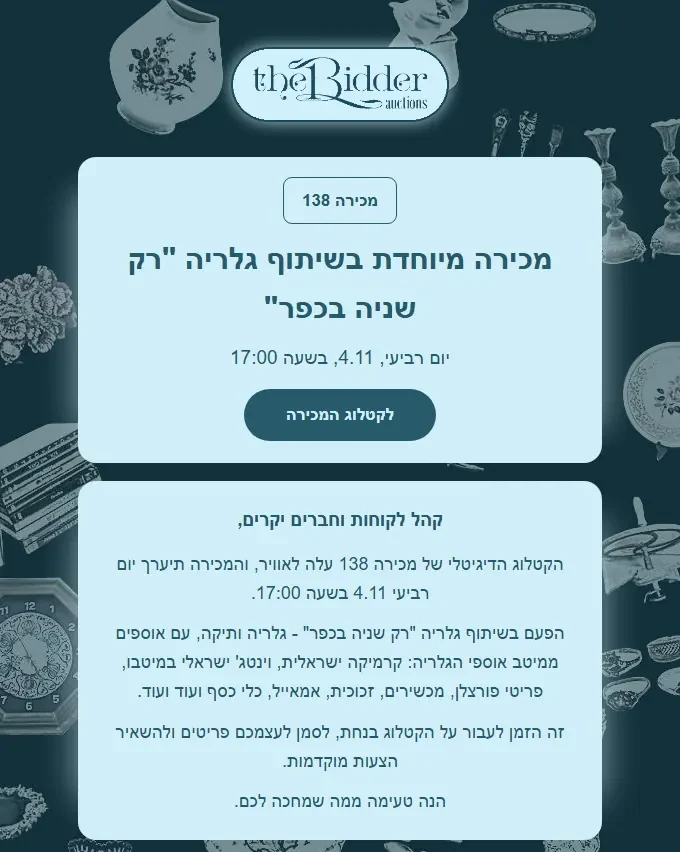
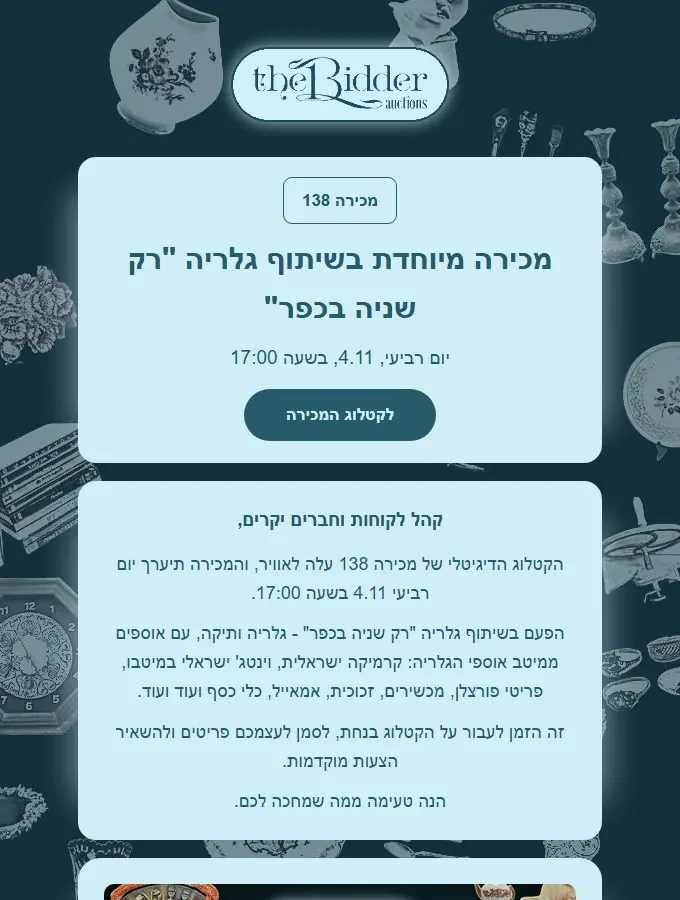
Who is talking: film-trained; the three mails open at one length

diff --git a/index.html b/index.html
@@ -638,6 +638,8 @@ html:has(.cam[open]) { overflow: hidden; }
 
 
 /* the Flytrex film plays in the page, on a click; the link to YouTube stays under it */
+/* an opening frame of a longer mail or page fades out where it is cut; a click opens the whole */
+.paste__btn[data-tall] img { -webkit-mask-image: linear-gradient(to bottom, #000 82%, transparent); mask-image: linear-gradient(to bottom, #000 82%, transparent); }
 .film { margin-top: 1rem; max-width: 40rem; }
 .film__frame { position: relative; aspect-ratio: 16 / 9; background: #0b0b0b; overflow: hidden; }
 .film__frame iframe { position: absolute; inset: 0; width: 100%; height: 100%; border: 0; }
@@ -1104,9 +1106,9 @@ a.film__play { text-decoration: none; }
       <p class="prose">The house&rsquo;s mail for its end-of-year sale in December 2024, before my time. Then mine: the May 2026 sale on Bidspirit, and the first mail of sale 138 in November, built by BINA. Each opens whole on a click.</p>
     </div>
     <div class="row row--3" style="max-width:56rem">
-      <figure class="paste"><button class="paste__btn" type="button" data-zoom data-full="assets/mail-2024.webp" data-tall><img src="assets/mail-2024-top.webp" width="680" height="1060" alt="The opening of the house&rsquo;s mail for its end-of-year sale, December 2024: the logo, a grid of eight lot photographs, and centred lines of Hebrew" loading="lazy"></button><figcaption class="cap">December 2024, the house&rsquo;s mail before mine</figcaption></figure>
-      <figure class="paste"><button class="paste__btn" type="button" data-zoom data-full="assets/mail-old.webp" data-tall><img src="assets/mail-old-top.webp" width="680" height="1030" alt="The opening of my mail for the May 2026 sale on Bidspirit: centred lines of Hebrew in blue boxes" loading="lazy"></button><figcaption class="cap">May 2026, the sale on Bidspirit</figcaption></figure>
-      <figure class="paste"><button class="paste__btn" type="button" data-zoom data-full="assets/mail-138-m1.webp" data-tall><img src="assets/mail-138-m1-top.webp" width="680" height="852" alt="The opening of sale 138, mail 1: the house seal over the sale&rsquo;s date and a greeting, on a ground of the sale&rsquo;s objects" loading="lazy"></button><figcaption class="cap">November 2026, sale 138, mail 1</figcaption></figure>
+      <figure class="paste"><button class="paste__btn" type="button" data-zoom data-full="assets/mail-2024.webp" data-tall><img src="assets/mail-2024-top.webp" width="680" height="900" alt="The opening of the house&rsquo;s mail for its end-of-year sale, December 2024: the logo, a grid of eight lot photographs, and centred lines of Hebrew" loading="lazy"></button><figcaption class="cap">December 2024, the house&rsquo;s mail before mine</figcaption></figure>
+      <figure class="paste"><button class="paste__btn" type="button" data-zoom data-full="assets/mail-old.webp" data-tall><img src="assets/mail-old-top.webp" width="680" height="900" alt="The opening of my mail for the May 2026 sale on Bidspirit: centred lines of Hebrew in blue boxes" loading="lazy"></button><figcaption class="cap">May 2026, the sale on Bidspirit</figcaption></figure>
+      <figure class="paste"><button class="paste__btn" type="button" data-zoom data-full="assets/mail-138-m1.webp" data-tall><img src="assets/mail-138-m1-top.webp" width="680" height="900" alt="The opening of sale 138, mail 1: the house seal over the sale&rsquo;s date and a greeting, on a ground of the sale&rsquo;s objects" loading="lazy"></button><figcaption class="cap">November 2026, sale 138, mail 1</figcaption></figure>
     </div>
     <div class="turn">
       <h3 class="display">The posters</h3>
@@ -1157,6 +1159,7 @@ a.film__play { text-decoration: none; }
       <figure class="paste" style="max-width:22rem"><div class="paste__still"><img src="assets/portrait.webp" width="652" height="815" alt="Asaf Calderon, outdoors in autumn" loading="lazy"></div></figure>
       <div class="prose">
         <p>I am a strategist, writer and deck builder, trained as a storyteller. Since 2008 I have shaped positioning, copy and pitch decks for businesses launching or growing in their market. Since 2024 I also build AI products.</p>
+        <p>I am film-trained: my eye is one with the film camera. I bring both sides: art and marketing, mass media and the curated niche, creative and business.</p>
         <p>Clients get a storyteller’s structure, a translator’s precision and a producer’s delivery: a clear story, tested, ready to present.</p>
         <p>I am from Tel Aviv, Israel, and I live in Prague. I work in Hebrew and in English, with clients anywhere.</p>
         <p class="quiet">The precision is earned. In 2024 I produced about 20,000&nbsp;words of human Hebrew-to-English reference translations for the ground-truth set Google uses to evaluate its translation models.</p>
@@ -1244,7 +1247,7 @@ a.film__play { text-decoration: none; }
     next:    { client: 'You',               job: 'Your deck or brand',               year: '',           round: '',            status: 'Write to me' }
   };
   // Measured from each sheet's image files by tools/build_press.py.
-  var INKS = {"top":["#093927","#ffffff","#77877f","#4d655b","#a9b5af"],"bonfix":["#f6f5ee","#113a2c","#cde2d2","#95a499"],"rounds":["#f6f5ee","#091611","#809a9a","#d59f86","#d0b9b0","#315051","#806d60"],"mint":["#241f19","#ab792c","#765220","#dc9c34","#513816","#55dc8e","#f3c971"],"logo":["#f7f6f0","#093927","#70bed1","#2295af","#55919c","#d4ddd7"],"bina":["#f4eddd","#492826","#6f91ad","#7d57c2","#ad4d42","#a98951","#5ee997"],"method":["#f6f5ee","#121f16","#d2d2ca","#324853","#737a75","#afb4ae"],"clinic":["#ffffff","#876e6e","#bdddeb","#5a4b55","#82a1b2","#b35e42","#cf9b89"],"caption":["#f1f0ec","#0b201e","#0db8aa","#cb5a3e","#86cdc5"],"bidder":["#0d2329","#ffffff","#cff0fc","#42221c","#225463","#746654","#8cb5be"],"mailers":["#d0eef9","#ffffff","#12313b","#285a6a","#706658","#80908e","#af9a7d"],"writer":["#c5ccd4","#a7abb1","#83868a"]};
+  var INKS = {"top":["#093927","#ffffff","#77877f","#4d655b","#a9b5af"],"bonfix":["#f6f5ee","#113a2c","#cde2d2","#95a499"],"rounds":["#f6f5ee","#091611","#809a9a","#d59f86","#d0b9b0","#315051","#806d60"],"mint":["#241f19","#ab792c","#765220","#dc9c34","#513816","#55dc8e","#f3c971"],"logo":["#f7f6f0","#093927","#70bed1","#2295af","#55919c","#d4ddd7"],"bina":["#f4eddd","#492826","#6f91ad","#7d57c2","#ad4d42","#a98951","#5ee997"],"method":["#f6f5ee","#121f16","#d2d2ca","#324853","#737a75","#afb4ae"],"clinic":["#ffffff","#876e6e","#bdddeb","#5a4b55","#82a1b2","#b35e42","#cf9b89"],"caption":["#f1f0ec","#0b201e","#0db8aa","#cb5a3e","#86cdc5"],"bidder":["#0d2329","#ffffff","#cff0fc","#42221c","#225463","#746654","#8cb5be"],"mailers":["#d0eef9","#ffffff","#12313b","#285a6a","#8d6b52","#4d332a","#a99477"],"writer":["#c5ccd4","#a7abb1","#83868a"]};
   // The press's own bar: the four process colours, their three overprints, and tints.
   var PROCESS = ['#00a0e3', '#e5007d', '#ffe500', '#141414', '#e2231a', '#00a651', '#2e3192', '#7fcff1', '#f27fbe', '#fff27f', '#8a8a8a', '#bfe7f8', '#f8bfde', '#c8c8c8'];
 
